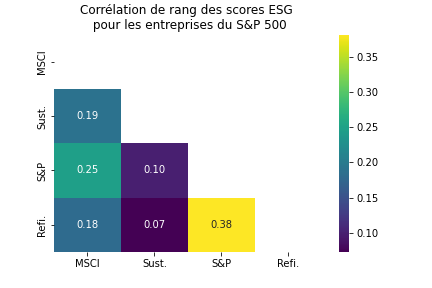
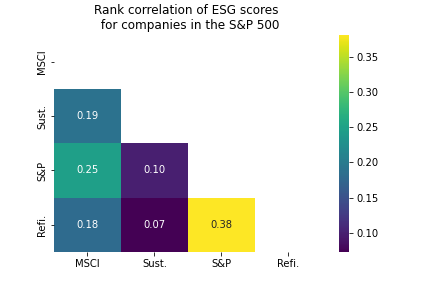
efficient asset selection

Changed region(s): [[0.1806, 0.0, 0.6921, 0.125]]

diff --git a/Tests_Indices.py b/Tests_Indices.py
@@ -1,0 +1,95 @@
+# -*- coding: utf-8 -*-
+"""
+Created on Thu May 16 15:05:13 2024
+
+@author: LoïcMARCADET
+"""
+import numpy as np
+import pandas as pd
+import matplotlib.pyplot as plt
+from ESG_Portfolio import ESG_Portfolio
+from Stocks import Stocks
+
+from ScoreGetter import ScoreGetter
+from ScoreMaker import ScoreMaker
+
+path = "Portefeuille/sp500_stocks_short.csv"
+annual_rf = 0.05 # Risk-free rate
+
+#%% Retrieve the scores and compute the ranks 
+SG = ScoreGetter('ESG/Scores/')
+SG.reduced_mixed_df()
+scores_ranks = SG.get_rank_df()
+dict_agencies = SG.get_dict()
+valid_tickers, valid_indices = SG.get_valid_tickers(), SG.get_valid_indices()
+
+SG.valid_ticker_sector()
+
+sectors_list = SG.valid_sector_df
+
+# Agencies scores
+SG_agencies = ScoreGetter('ESG/Scores/')
+SG_agencies.reduced_df()
+SG_agencies.set_valid_df()
+scores_valid = SG_agencies.get_score_df()
+#standard_scores = SG_agencies.standardise_df()
+#min_max_scores = SG_agencies.min_max_df()
+
+#SG_agencies.plot_distributions(scores_valid, "")
+#SG_agencies.plot_distributions(min_max_scores, "min_max")
+
+agencies_df_list = []
+for agency in scores_ranks.columns:
+    agencies_df_list.append(pd.DataFrame({'Tag': valid_tickers, 'Score': scores_valid[agency]}))
+    
+#%% Get the stock data and keep the companies in common with the target variable
+st = Stocks(path, annual_rf)
+st.process_data()
+st.compute_monthly_returns()
+
+# 0: MSCI 1: Sustainalytics 2: S&P 3: Refinitiv
+provider = 'Su'
+_ = st.keep_common_tickers(agencies_df_list[1], sectors_list)
+#_ = st.keep_common_tickers(ESGTV, sectors_list)
+
+stocks_sectors, stocks_ESG = st.select_assets(5)
+#stocks_ESG = st.restrict_assets(50)
+st.compute_mean()
+st.compute_covariance()
+mean, old_cov , rf = st.get_mean(), st.get_covariance(), st.get_rf()
+cov = st.covariance_approximation()
+
+#%% Build a portfolio with restrictions on the minimal ESG score
+
+finder_pf = ESG_Portfolio(mean,cov,rf, stocks_ESG, short_sales = False)
+#tangent_weights = epf.tangent_portfolio()
+#tangent_risk, tangent_return = epf.get_risk(tangent_weights), epf.get_return(tangent_weights)
+
+finder_pf = finder_pf.risk_free_stats()
+
+step = 1
+count, num_iters = 1, 1 + ((int(max(stocks_ESG))) - int(min(stocks_ESG))) // step
+emin, emax = int(min(stocks_ESG)), int(max(stocks_ESG))
+
+indices, ESG_range, find_sharpes = finder_pf.find_efficient_assets(emin, emax, step, criterion = 10**(-3))
+
+stocks_sectors, stocks_ESG = st.keep_assets(indices)
+st.compute_mean()
+st.compute_covariance()
+mean, old_cov , rf = st.get_mean(), st.get_covariance(), st.get_rf()
+cov = st.covariance_approximation()
+
+#%% New portfolio with only the efficient assets
+
+epf = ESG_Portfolio(mean,cov,rf, stocks_ESG, short_sales = False)
+#tangent_weights = epf.tangent_portfolio()
+#tangent_risk, tangent_return = epf.get_risk(tangent_weights), epf.get_return(tangent_weights)
+
+epf = epf.risk_free_stats()
+
+#find_sharpes, _ = finder_pf.efficient_frontier_ESG(int(min(stocks_ESG)), int(max(stocks_ESG)), interval = step)
+sharpes, ESG_list = epf.efficient_frontier_ESG(emin, emax, interval = step)
+
+epf.plot_general_frontier(ESG_list, find_sharpes, fig_label = 'Full assets', fig_title = 'ESG contraints and Sharpe ratio, no short, Su scores', xlabel = None, ylabel = None)
+epf.plot_general_frontier(ESG_list, sharpes, fig_label = 'Efficient assets', fig_title = 'ESG contraints and Sharpe ratio, no short, Su scores', xlabel = 'ESG constraints', ylabel = 'Sharpe ratio', new_fig = False)
+

diff --git a/Stocks.py b/Stocks.py
@@ -28,13 +28,15 @@ class Stocks:
         # Pivot the DataFrame to have symbols as columns
         self.stocks_pivot = self.stocks.pivot(index='Date', columns='Symbol', values='Adj Close')
         
-    def compute_monthly_returns(self, n_valid = 50):
+    def compute_monthly_returns(self, n_valid = 50, drop_index = None):
         # Calculate monthly returns for each symbol
         monthly_returns = self.stocks_pivot.resample('ME').ffill().pct_change()
 
         # Get rid of the first row of NaN
         monthly_returns = monthly_returns.iloc[1:]
-   
+        if drop_index is not None:
+           monthly_returns = monthly_returns.iloc[drop_index:] 
+    
         # Drop columns that have less than n_valid valid values
         self.returns = monthly_returns.dropna(axis=1, thresh=n_valid)
      
@@ -105,25 +107,46 @@ class Stocks:
         else:
             best_indices = sorted(range(self.n_assets), key=lambda x: self.targetESG[x])[:worst_count]
         best_indices = np.sort(best_indices)
-        self.targetESG = [self.targetESG[i] for i in range(self.n_assets) if i in best_indices]
+# =============================================================================
+#         self.targetESG = [self.targetESG[i] for i in range(self.n_assets) if i in best_indices]
+#         
+#         if self.sectors is not None:
+#             self.sectors = self.sectors.iloc[best_indices]
+#             self.index = self.sectors.index
+#             
+#         self.n_assets -= worst_count 
+#         
+#         if self.tickers is not None:
+#             self.tickers = self.tickers[best_indices]
+#             
+#         self.returns = self.returns.iloc[:, best_indices]
+# =============================================================================
+        sectors, targetESG = self.keep_assets(best_indices)
+        return(sectors, targetESG)
+    
+    def keep_assets(self, int_indices):
+        if not(self.rf_params):
+            int_indices = [x - 1 for x in int_indices]
+        self.targetESG = [self.targetESG[i] for i in range(self.n_assets) if i in int_indices]
         
         if self.sectors is not None:
-            self.sectors = self.sectors.iloc[best_indices]
+            self.sectors = self.sectors.iloc[int_indices]
             self.index = self.sectors.index
             
-        self.n_assets -= worst_count 
+        self.n_assets -= (self.n_assets - len(int_indices))
         
         if self.tickers is not None:
-            self.tickers = self.tickers[best_indices]
+            self.tickers = self.tickers[int_indices]
             
-        self.returns = self.returns.iloc[:, best_indices]
+        self.returns = self.returns.iloc[:, int_indices]
         return(self.sectors, self.targetESG)
-     
+    
     def compute_mean(self):
         self.mean = np.array(self.returns.mean(axis = 0))
         
-    def compute_covariance(self):
+    def compute_covariance(self, bias = False):
         self.covariance = np.array(self.returns.cov())
+        #self.covariance = np.cov(self.returns, bias = bias)
         
     def scikit_covariance(self):
         self.scov = empirical_covariance(self.returns)

diff --git a/Tests_Cov.py b/Tests_Cov.py
@@ -1,0 +1,73 @@
+# -*- coding: utf-8 -*-
+"""
+Created on Tue May 14 18:43:02 2024
+
+@author: LoïcMARCADET
+"""
+
+import numpy as np
+import pandas as pd
+import matplotlib.pyplot as plt
+import numpy.linalg as linalg
+from ESG_Portfolio import ESG_Portfolio
+from Stocks import Stocks
+
+from ScoreGetter import ScoreGetter
+from ScoreMaker import ScoreMaker
+
+path = "Portefeuille/sp500_stocks_short.csv"
+annual_rf = 0.05 # Risk-free rate
+
+#%% Retrieve the scores and compute the ranks 
+SG = ScoreGetter('ESG/Scores/')
+SG.reduced_mixed_df()
+scores_ranks = SG.get_rank_df()
+dict_agencies = SG.get_dict()
+valid_tickers, valid_indices = SG.get_valid_tickers(), SG.get_valid_indices()
+
+SG.valid_ticker_sector()
+
+sectors_list = SG.valid_sector_df
+
+# Agencies scores
+SG_agencies = ScoreGetter('ESG/Scores/')
+SG_agencies.reduced_df()
+SG_agencies.set_valid_df()
+scores_valid = SG_agencies.get_score_df()
+#standard_scores = SG_agencies.standardise_df()
+#min_max_scores = SG_agencies.min_max_df()
+
+#SG_agencies.plot_distributions(scores_valid, "")
+#SG_agencies.plot_distributions(min_max_scores, "min_max")
+
+agencies_df_list = []
+for agency in scores_ranks.columns:
+    agencies_df_list.append(pd.DataFrame({'Tag': valid_tickers, 'Score': scores_valid[agency]}))
+    
+#%% Get the stock data and keep the companies in common with the target variable
+st = Stocks(path, annual_rf)
+st.process_data()
+st.compute_monthly_returns(n_valid = 50, drop_index = 60)
+#st.compute_monthly_returns(n_valid = 50)
+
+# 0: MSCI 1: Sustainalytics 2: S&P 3: Refinitiv
+provider = 'Su'
+_ = st.keep_common_tickers(agencies_df_list[1], sectors_list)
+#_ = st.keep_common_tickers(ESGTV, sectors_list)
+
+stocks_sectors, stocks_ESG = st.select_assets(5)
+#stocks_ESG = st.restrict_assets(100)
+st.compute_mean()
+st.compute_covariance(bias = False)
+old_cov = st.get_covariance()
+#st.compute_covariance(bias = True)
+#cov = st.covariance_approximation()
+#bias_cov = st.get_covariance()
+
+eigv = linalg.eigvalsh(old_cov)
+#bias_eigv = linalg.eigvalsh(bias_cov)
+
+neg1 = eigv[eigv <=0]
+#neg2 =  bias_eigv[bias_eigv <=0]
+print(neg1)
+#print(neg2)

diff --git a/correl_table.py b/correl_table.py
@@ -35,5 +35,11 @@ mask = np.triu(np.ones_like(correls, dtype=bool))
 
 plt.figure()
 sns.heatmap(correls, annot = True, mask = mask, xticklabels=names, yticklabels = names, fmt = ".2f", cmap = 'viridis')
-plt.title('Corrélation de rang des scores ESG \n pour les entreprises du S&P 500')
-plt.savefig('Figures/correlations.png')
+fr = False
+if fr:
+    plt.title('Corrélation de rang des scores ESG \n pour les entreprises du S&P 500')
+    plt.savefig('Figures/correlations_fr.png')
+else:
+    plt.title('Rank correlation of ESG scores \n for companies in the S&P 500')
+    plt.savefig('Figures/correlations.png')    
+

diff --git a/Portfolio.py b/Portfolio.py
@@ -13,7 +13,7 @@ import seaborn as sns
 import pandas as pd
 
 class Portfolio:
-    def __init__(self,mu,sigma, rf, short_sales = True, sectors = None):
+    def __init__(self,mu,sigma, rf, short_sales = True, sectors = None, rf_params = False):
         self.mu = mu
         self.sigma = sigma
         self.rf = rf
@@ -22,7 +22,7 @@ class Portfolio:
         self.sectors = sectors
         
         # Is the risk-free included in the mean and covariance
-        self.rf_params = False
+        self.rf_params = rf_params
         
         self.existing_plot = False
         
